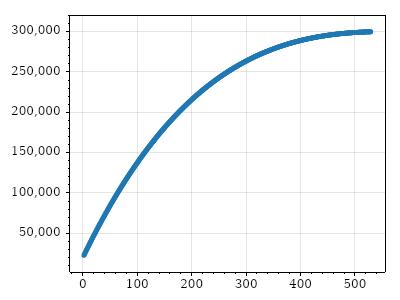
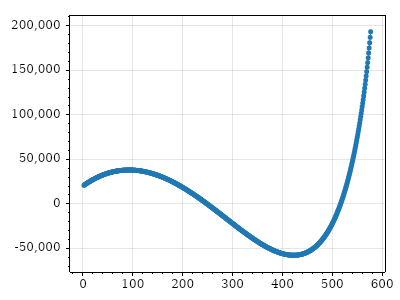
working for equatioril

diff --git a/upfgconsole.Tests/obj/Debug/net8.0/upfgconsole.Tests.AssemblyInfo.cs b/upfgconsole.Tests/obj/Debug/net8.0/upfgconsole.Tests.AssemblyInfo.cs
@@ -13,7 +13,7 @@ using System.Reflection;
 [assembly: System.Reflection.AssemblyCompanyAttribute("upfgconsole.Tests")]
 [assembly: System.Reflection.AssemblyConfigurationAttribute("Debug")]
 [assembly: System.Reflection.AssemblyFileVersionAttribute("1.0.0.0")]
-[assembly: System.Reflection.AssemblyInformationalVersionAttribute("1.0.0+59c0d6a1e573520dc0aab9b89c4ab8cd9a9f42c0")]
+[assembly: System.Reflection.AssemblyInformationalVersionAttribute("1.0.0+73e2cd8e23f3d0ae8277437f76532cbe19d97026")]
 [assembly: System.Reflection.AssemblyProductAttribute("upfgconsole.Tests")]
 [assembly: System.Reflection.AssemblyTitleAttribute("upfgconsole.Tests")]
 [assembly: System.Reflection.AssemblyVersionAttribute("1.0.0.0")]

diff --git a/upfgconsole/obj/Debug/net8.0/upfgconsole.AssemblyInfo.cs b/upfgconsole/obj/Debug/net8.0/upfgconsole.AssemblyInfo.cs
@@ -13,7 +13,7 @@ using System.Reflection;
 [assembly: System.Reflection.AssemblyCompanyAttribute("upfgconsole")]
 [assembly: System.Reflection.AssemblyConfigurationAttribute("Debug")]
 [assembly: System.Reflection.AssemblyFileVersionAttribute("1.0.0.0")]
-[assembly: System.Reflection.AssemblyInformationalVersionAttribute("1.0.0+59c0d6a1e573520dc0aab9b89c4ab8cd9a9f42c0")]
+[assembly: System.Reflection.AssemblyInformationalVersionAttribute("1.0.0+73e2cd8e23f3d0ae8277437f76532cbe19d97026")]
 [assembly: System.Reflection.AssemblyProductAttribute("upfgconsole")]
 [assembly: System.Reflection.AssemblyTitleAttribute("upfgconsole")]
 [assembly: System.Reflection.AssemblyVersionAttribute("1.0.0.0")]

diff --git a/upfgconsole/upfgconsole.cs b/upfgconsole/upfgconsole.cs
@@ -16,8 +16,8 @@ class Handler
         
 
 
-        float inc = 0;
-        float lat = 0f;
+        float inc = 51.6f;
+        float lat = 28.5f;
 
         Dictionary<string, float> desOrbit = new Dictionary<string, float>{
             {"pe", 300 },
